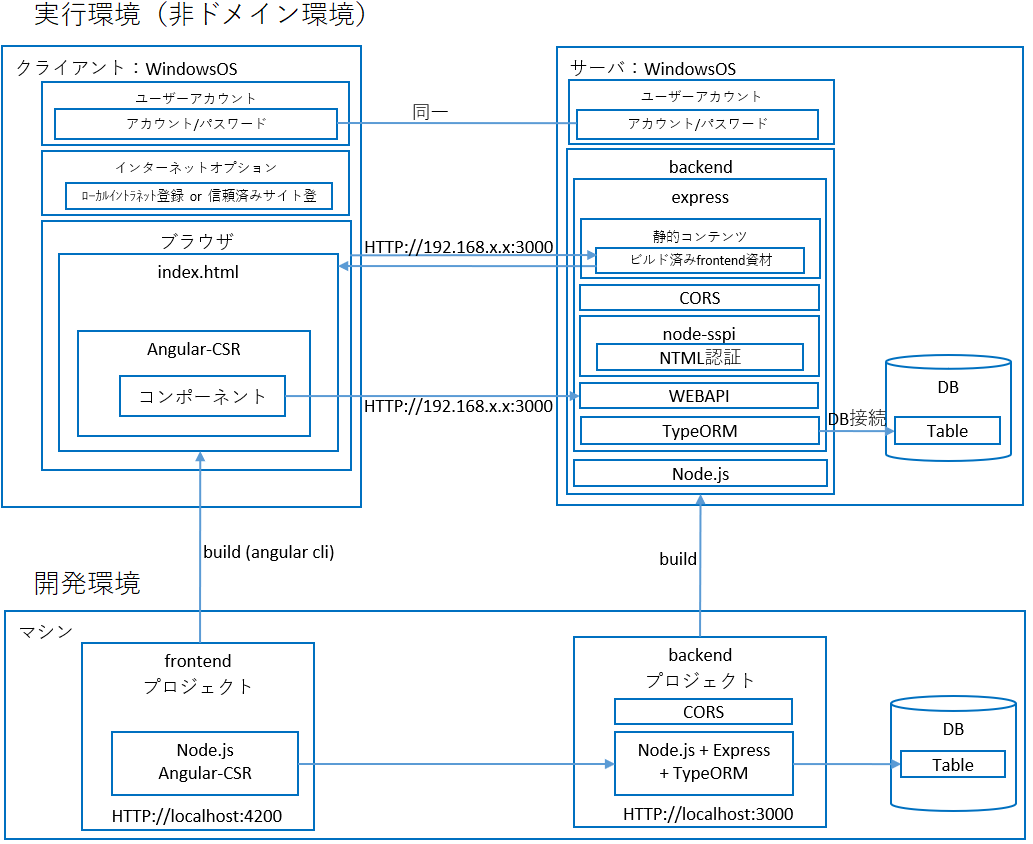
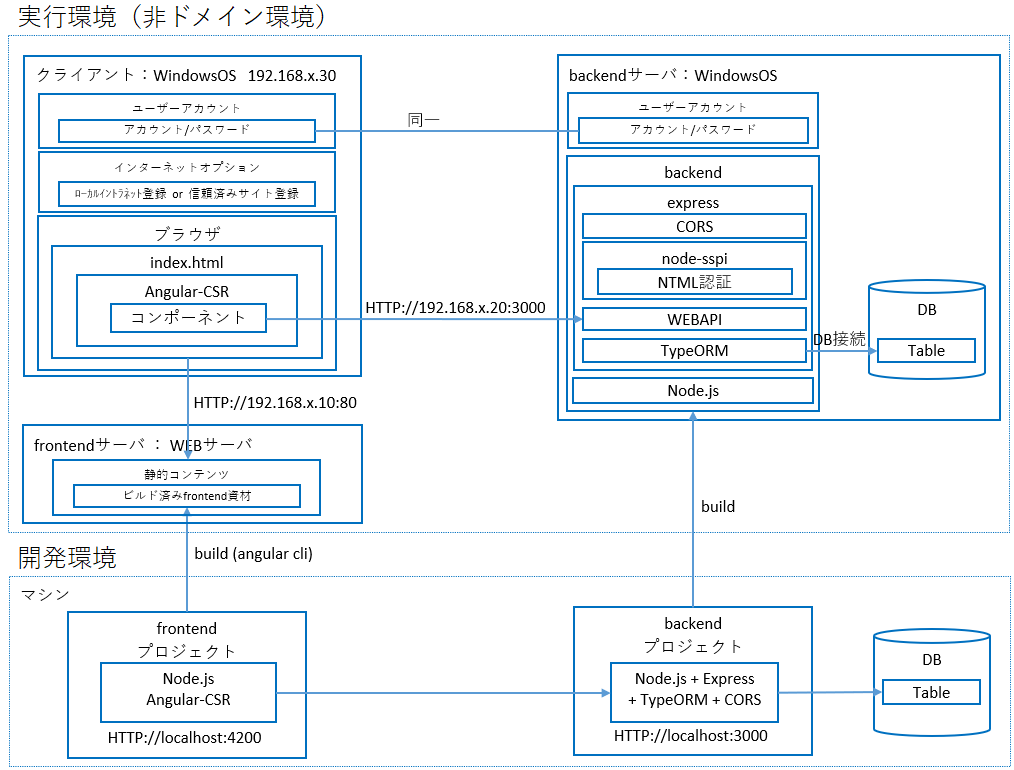
add

Changed region(s): [[0.0, 0.0, 1.0, 0.9974]]

diff --git a/backend-sspi/src/app.ts b/backend-sspi/src/app.ts
@@ -9,7 +9,7 @@ const app = express();
 var server = http.createServer(app);
 
 // frontend資材をbackendからbackendと同じホスト名及びポート番号で提供するための設定
-app.use(express.static('../frontend/dist/frontend/browser/'));
+//app.use(express.static('../frontend/dist/frontend/browser/'));
 
 // cors設定の順序は認証処理の前に定義する。
 // またPreflight Requestの処理はここで行われる。

diff --git a/backend/src/app.ts b/backend/src/app.ts
@@ -4,6 +4,7 @@ import { AppDataSource } from './data-source';
 import { User } from './entity/User';
 
 const app = express();
+//app.use(express.static('../frontend/dist/frontend/browser/'));
 app.use(cors({
     origin: 'http://localhost:4200',
     credentials: true,

diff --git a/README.md b/README.md
@@ -6,12 +6,46 @@ Angular-CSR + Express Backend + node-sspi
 以下の動作検証を行うための、ユーザ管理アプリケーションを作成する
 * frontendは、
   - `Angular`の`CSR(クライアントサイドレンダリング)`
-  - 1画面でのユーザ管理（一覧表示、登録）
+  - 1画面で、ユーザ管理機能（一覧表示、登録）を提供する
 * backendは、
   - `Express` + `typeorm`を使用したWEBAPI
-  - `node-sspi`を使用したWindows認証
+  - `node-sspi`を使用したWindows認証（ログイン画面無しでの自動ログイン）
 
+## Windows認証
+
+* 使用するWindows認証ライブラリ
+  - `node-sspi`を利用する
+  - 別に`node-expose-sspi`もある
+
+* Windowsは非ドメイン参加（ActiveDirectory無し）で、WORKGROUPで行う。
+  - そのため、今回はNTML認証を使ったWindows認証を行う。※2023年10月11日にNTML認証が将来的に廃止される方針が出された。
+  - ActiveDirectoryを使用してドメイン参加した場合は、セキュアであるKerberos認証を使用することが可能。
+
+* システム構成
+  - 1.クライアントブラウザ端末：利用者が使用するマシン。ブラウザはEdge。Windows必須。
+  - 2.frontendサーバ：frontend資材を静的に配信する`Webサーバ`
+  - 3.backendサーバ：`backend`の`WEBAPI`と`DB`からならるサーバ。Windows必須。
+
+* 本番環境：クライアントブラウザ端末とfrontendサーバとbackendサーバが全て異なるマシン（異なるIPアドレス）である
+  - クライアントブラウザ端末とbackendサーバで、同一のユーザアカウント（パスワードも同じ）が登録されていること
+    - NTML認証で必要
+    - クライアントブラウザ端末が複数台存在する場合には、それぞれのアカウント（パスワードも同じ）をbackendサーバに登録しておく必要がある
+  - クライアントブラウザ端末の`インターネットオプション`で`信頼済みサイト`または`ローカルイントラネット`に、backendサーバのIPアドレスまたはホスト名が登録されていること
+    - NTML認証で必要
+  - frontendサーバのIPアドレスまたはホスト名は、認証とは特に関係ないため登録不要。
+  - `NTML認証`ではセキュリティで`HTTPS`は必須だが、本検証は`HTTP`で実施。
+
+* 開発環境：クライアントブラウザ端末とfrontendサーバとbackendサーバが全て同一マシンである場合で、`localhost`で起動する
+  - `localhost`でbackendを起動する際には特に`信頼済みサイト`等への登録は不要
+  - そのマシンのWindowsにログインしているユーザアカウントでWindows認証が行われる
 
 ## 構成
 
 ![構成](app.png)
+
+> [!TIP]
+> ## 参考
+> 
+> IE 限定じゃない統合Windows認証－Chrome / Edge / Firefox でも！  
+> https://www.teppi.com/fileblog-column/update0008  
+
